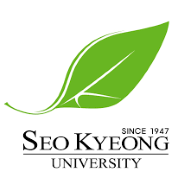
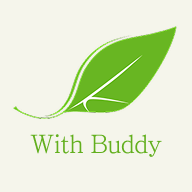
🎨Design : pwa 아이콘 변경

Changed region(s): [[0.0, 0.0938, 0.9375, 0.625], [0.0938, 0.6562, 0.875, 0.875]]

diff --git a/src/api/axios.js b/src/api/axios.js
@@ -102,7 +102,7 @@ privateApi.interceptors.request.use(
 );
 
 /**
- * 응답 인터셉터 - 400, 401 발생 시 자동으로 토큰 갱신
+ * 응답 인터셉터 - 401 발생 시 자동으로 토큰 갱신
  */
 privateApi.interceptors.response.use(
   (response) => response,

diff --git a/src/components/header/Header.jsx b/src/components/header/Header.jsx
@@ -12,6 +12,9 @@ export default function Header() {
   const handleLogout = () => {
     logout(); // Zustand & 로컬 스토리지 초기화
     navigate("/login");
+    setTimeout(() => {
+    window.location.reload();
+  }, 100)
   };
 
   return (
